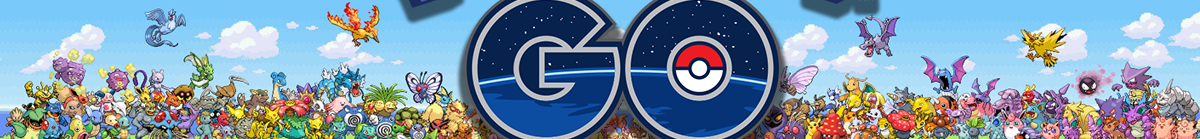
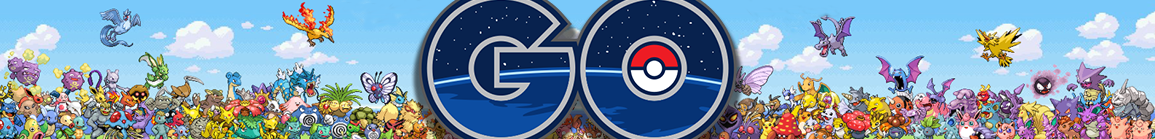
header almost finished

diff --git a/assets/style/main.css b/assets/style/main.css
@@ -1,4 +1,4 @@
-@import 'https://fonts.googleapis.com/css?family=Open+Sans';
+@import 'https://fonts.googleapis.com/css?family=Open+Sans:400,700';
 
 * {
 	margin: 0;
@@ -19,70 +19,93 @@ header {
 	margin-top: 0px;
 	margin-left: 0px;
 	width: 100%;
-
+	z-index: 600;
 
 }
 
 .header-bar-upper {
-
+	height: 100px;
+	width: 100%;
+	display: flex;
+	justify-content: space-between;
+	align-items: center;
 	background-image: url("../img/pokemon-go-header-upper.png");
 	background-repeat: no-repeat;
 	background-size: cover;
-	box-sizing: border-box;
+	background-position: center center;
 	border-bottom: 3px solid #5d4037;
 	-webkit-box-shadow: 0px 15px 5px -1px rgba(59,38,8,0.1);
 	-moz-box-shadow: 0px 15px 5px -1px rgba(59,38,8,0.1);
 	box-shadow: 0px 15px 5px -1px rgba(59,38,8,0.1);
-	
-}
-
-header h1 {
-	text-transform: uppercase;
-	text-decoration: bold;
-	display: inline-block;
-	color: white;
-	letter-spacing: 0.2em;
-	font-size: 1.5vw;
 
 }
 
-@mediascreen (max-width: 760px)
-{
-
-header h1 {
-	
-	font-size: 1em;
-}
-
+.logo-wrap {
+	flex: 1;
+	height: 100%;
+	line-height: 100px;
 
 }
 
-header h1 span {}
 
 .logo-header {
-	display: inline-block;
+	height: 80%;
+	margin-left: 10px;
+
+	vertical-align: middle;
+}
+
+
+header h1 {
+	flex: 3;
+	text-transform: uppercase;
+	text-decoration: bold;
+	color: white;
+	letter-spacing: 0.2em;
+	font-size: 2vw;
+
+}
+
+.emtpy-div {
+	flex: 1;
 	height: 100%;
-	padding: 0px 1em;
-	
 }
 
-.logo-header a {
-	text-decoration: none;
-
-}
-
-.logo-header a img {
-
-	
-	width: 80%;
-	margin: 0.35em 0em;
 
 
+
+
+.header-inbetween-bar {
+height: 25px;
+width: 100%;
+background-image: url("../img/inbetween-header.png");
 
 }
 
-.index-header-nav {
+
+
+.test {
+	position: relative;
+	top: 128px;
+	width: 65%;
+	margin-left: auto;
+	margin-right: auto;
+	background-color: white;
+	height: 100vh;
+}
+
+. {
+	margin: 200px 10% 100px 10%;
+	height: 1000px;
+
+}
+
+
+
+
+.index-header-nav{
 	display: none;
 }
+
 
 /****** header-end *********/

diff --git a/assets/index.html b/assets/index.html
@@ -36,15 +36,26 @@
 <header>
 
 <div class="header-bar-upper">
-  <div class="logo-header">
-      <a href="index.html" alt="logo">
-      <img alt="logo" src="img/NV-logo.png">
-      </a>
+
+    <div class="logo-wrap">
+        <a href="index.html" alt="logo" class="logo-link">
+        <img class="logo-header" alt="logo" src="img/NV-logo.png">
+        </a>
+    </div>
+
+    <div class="titel-header">
+      <h1>POKEMON GO SWITZERLAND
+      <h1>
+    </div>
+    
+    <div class="emtpy-div"> <!-- emtpy div -->
+    </div>
+
 </div>
 
-<h1>POKEMON GO SWITZERLAND
-<h1>
-  
+
+
+<div class="header-inbetween-bar">
 </div>
 
 
@@ -73,6 +84,13 @@
   ***************************************************************content
 
 -->
+
+
+<div class="test">
+<p>yo dfasdfas
+</p>
+</div>
+
 
 
 
